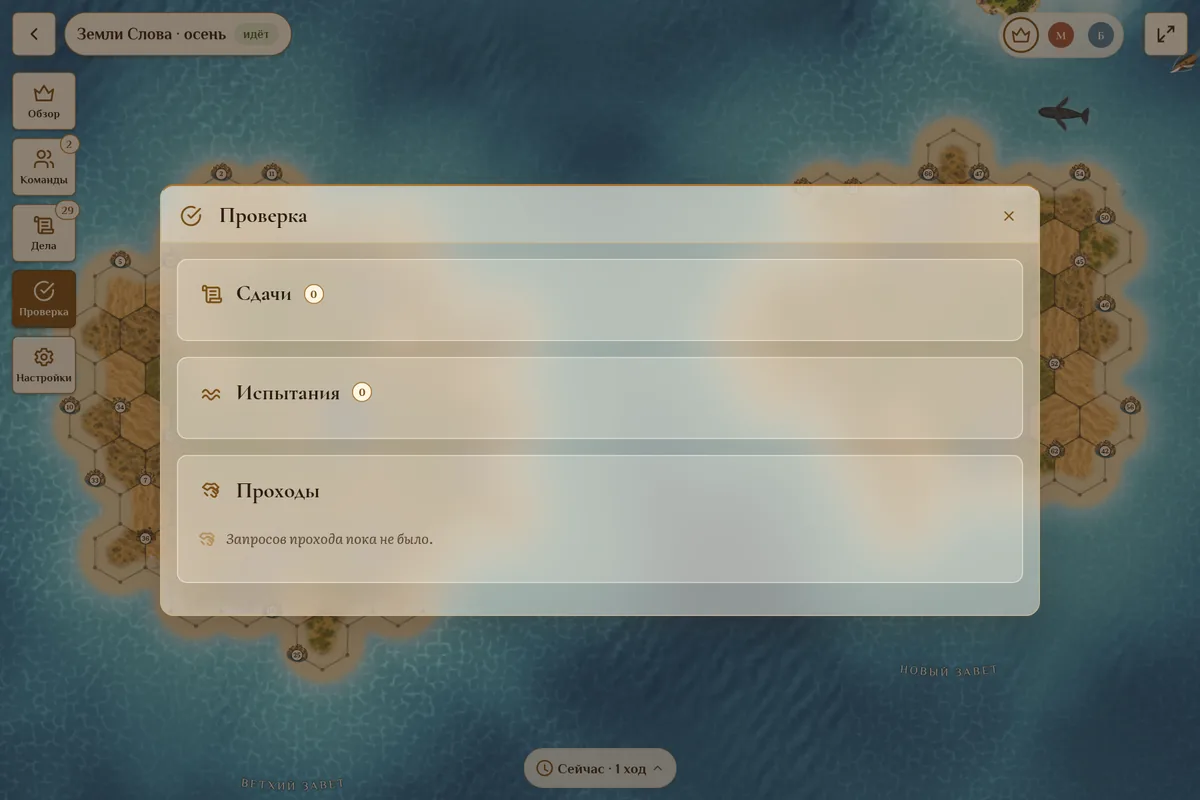
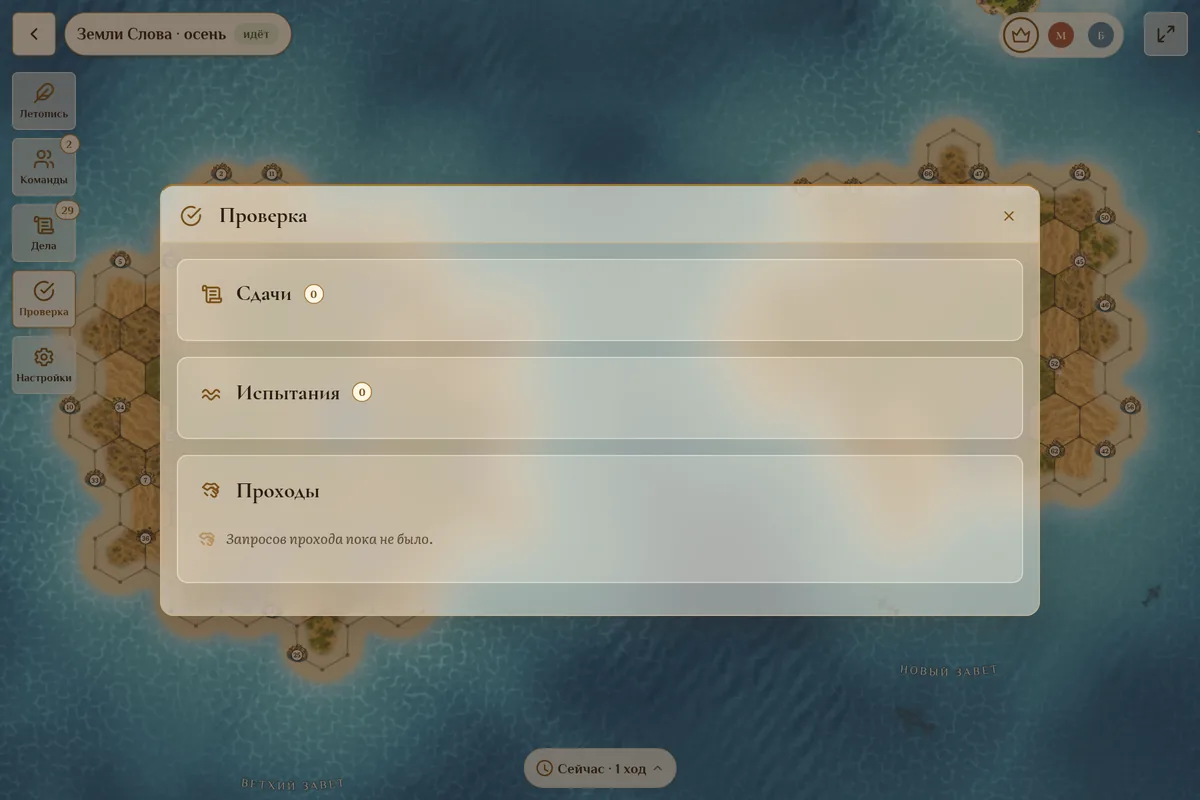
Разделы администратора: «Летопись» с пером вместо «Обзора», блок «Сейчас» убран, срок окончания, «Завершить игру» и адресаты конвертов в «Настройках», срок после сохранения одной строкой с карандашом; кнопки разделов и карты — стекло (решения владельца 21.09)
Claude-Session: https://claude.ai/code/session_01GYZTpVpHB6EzyvMrXyiWEP

Changed region(s): [[0.0, 0.0625, 0.0617, 0.5], [0.9558, 0.0, 1.0, 0.0938], [0.8633, 0.125, 0.925, 0.1562]]

diff --git a/apps/web/src/lib/en/player.ts b/apps/web/src/lib/en/player.ts
@@ -61,7 +61,7 @@ export const PLAYER: Record<string, string> = {
   "Мир. Капитан, заместитель или посол может предложить другой команде мир; та принимает или отклоняет. Пока мир действует, команды не бросают вызов городам друг друга и не объявляют осад. Мир не на срок: он действует, пока одна из сторон его не расторгнет; расторжение вступает в силу сразу, и об этом узнают все команды.": "Peace. The captain, deputy or ambassador can offer peace to another team; that team accepts or declines. While peace lasts, the teams do not challenge each other's cities and do not declare sieges. Peace has no term: it lasts until one side breaks it; the break takes effect at once, and every team learns of it.",
   "Лента «Что случилось» показывает события команды и новости обо всех испытаниях игры: кто кому бросил вызов, устоял ли город — без ставок и чисел стихов. «Моё служение» считает ваши дела, решённые районы, выученные стихи и взятые города. Раз в неделю всем приходит летопись недели. Первая команда, изучившая руины, находит знак шифра ближайшего города; над взятыми портами кружат чайки, раз в день клин птиц летит к ближайшему неоткрытому городу, дельфины сопровождают корабль.": "The “What happened” feed shows the team's events and news about every trial in the game: who challenged whom and whether the city held — without stakes or verse counts. “My service” counts your deeds, solved districts, learned verses and cities taken. Once a week everyone receives the chronicle of the week. The first team to study ruins finds a cipher sign of the nearest city; gulls circle over captured ports, once a day a wedge of birds flies to the nearest unopened city, and dolphins escort the ship.",
   "Меню команды: лента, служение, дела, испытания, положение команд, мир, состав.": "Team menu: feed, service, deeds, trials, standings, peace, roster.",
-  "Доска активности в блоке «Команды» показывает, кто сколько сделал (дела, районы, стихи, города) и когда был активен. В «Обзоре» — журнал событий игры и кнопка «Отправить летопись сейчас», в «Командах» — положение команд и «Книга сезона»: страница итогов для показа на собрании, её можно распечатать. В «Проверке» сдачи можно отфильтровать по команде и виду, посмотреть возраст и принять несколько однотипных разом; письма о сдачах могут приходить одним дайджестом раз в 3 часа или раз в день (продвинутые настройки).": "The activity board in the “Teams” block shows who did how much (deeds, districts, verses, cities) and when they were last active. “Overview” has the game's event log and the “Send the chronicle now” button; “Teams” has the standings and the “Season book”: a results page to show at the meeting, which can be printed. In “Review” submissions can be filtered by team and kind, their age is shown, and several of the same kind can be approved at once; submission emails can arrive as one digest every 3 hours or once a day (advanced settings).",
+  "Доска активности в блоке «Команды» показывает, кто сколько сделал (дела, районы, стихи, города) и когда был активен. В «Летописи» — журнал событий игры и кнопка «Отправить летопись сейчас», в «Командах» — положение команд и «Книга сезона»: страница итогов для показа на собрании, её можно распечатать. В «Проверке» сдачи можно отфильтровать по команде и виду, посмотреть возраст и принять несколько однотипных разом; письма о сдачах могут приходить одним дайджестом раз в 3 часа или раз в день (продвинутые настройки).": "The activity board in the “Teams” block shows who did how much (deeds, districts, verses, cities) and when they were last active. “Overview” has the game's event log and the “Send the chronicle now” button; “Teams” has the standings and the “Season book”: a results page to show at the meeting, which can be printed. In “Review” submissions can be filtered by team and kind, their age is shown, and several of the same kind can be approved at once; submission emails can arrive as one digest every 3 hours or once a day (advanced settings).",
   // Журнал событий (этап 4 решений 18.09): лента, новости, «Моё служение», мир, доска активности, «Книга сезона»
   "Что случилось": "What happened", "Пока тихо: первые события появятся, когда команда возьмёт дело.": "Quiet so far: the first events appear when the team takes a deed.",
   "Летопись недели": "Chronicle of the week", "новость": "news", "Показать всё ({n})": "Show all ({n})",
@@ -167,12 +167,12 @@ export const PLAYER: Record<string, string> = {
   "Меню команды: дела, испытания, положение команд, состав.": "Team menu: deeds, trials, standings, roster.",
   "Для администратора": "For the administrator",
   "Администратор создаёт игру, генерирует карту (можно сколько угодно раз, пока не понравится), создаёт команды и раздаёт ссылки-приглашения капитанам и участникам, заполняет набор дел (есть стандартный) и стартует игру.": "The administrator creates the game, generates the map (as many times as needed until it looks right), creates teams and hands out invitation links to captains and members, fills in the set of deeds (a default set is available) and starts the game.",
-  "У администратора карта во весь экран, а разделы — кнопки сбоку (на телефоне снизу): Обзор, Команды, Дела, Проверка, Настройки; нажатие открывает раздел над картой. Во время игры администратор проверяет сдачи дел и видео испытаний в «Проверке», следит за положением команд в «Обзоре» и на карте, при необходимости назначает города и завершает игру.": "The administrator sees the map full screen, with the sections as buttons on the side (at the bottom on a phone): Overview, Teams, Deeds, Review, Settings; tapping one opens the section over the map. During the game the administrator reviews deed submissions and trial videos in “Review”, follows the standings in the “Overview” and on the map, assigns cities when needed and finishes the game.",
+  "У администратора карта во весь экран, а разделы — кнопки сбоку (на телефоне снизу): Летопись, Команды, Дела, Проверка, Настройки; нажатие открывает раздел над картой. Во время игры администратор проверяет сдачи дел и видео испытаний в «Проверке», следит за положением команд в «Обзоре» и на карте, при необходимости назначает города и завершает игру.": "The administrator sees the map full screen, with the sections as buttons on the side (at the bottom on a phone): Chronicle, Teams, Deeds, Review, Settings; tapping one opens the section over the map. During the game the administrator reviews deed submissions and trial videos in “Review”, follows the standings in the “Overview” and on the map, assigns cities when needed and finishes the game.",
   "Карта администратора: все города, номера, пути команд; кнопки разделов слева.": "Administrator’s map: all cities, numbers, team routes; section buttons on the left.",
-  "Конверты. До старта в «Обзоре» добавьте адресатов конвертов — семьи, вдов, старцев, к которым команды понесут шифр (только подпись без имён и адресов; список стирается после игры). Игра раздаёт города адресатам поровну; если адресата добавили позже, нажмите «Перераспределить поровну». Кнопка «Ярлыки» рядом со списком открывает предпросмотр и «Скачать PDF»: на каждый город наружный ярлык на конверт (кому, номер книги, шифр) и вкладыш с ключом города. Разрежьте, вложите, раздайте адресатам. Ключ каждого города виден и в его карточке на карте — на случай, если конверт потеряется.": "Envelopes. Before the start, add envelope recipients in Overview: the families, widows and elders the teams will bring the cipher to (a short label only, no names or addresses; the list is erased after the game). The game shares the cities out evenly among recipients; if a recipient was added later, press “Share out evenly”. The “Labels” button next to the list opens a preview and “Download PDF”: for every city an outer label for the envelope (to whom, book number, cipher) and an insert with the city key. Cut, insert, hand out to the recipients. Each city key is also visible in its card on the map in case an envelope gets lost.",
+  "Конверты. До старта в «Настройках» добавьте адресатов конвертов — семьи, вдов, старцев, к которым команды понесут шифр (только подпись без имён и адресов; список стирается после игры). Игра раздаёт города адресатам поровну; если адресата добавили позже, нажмите «Перераспределить поровну». Кнопка «Ярлыки» рядом со списком открывает предпросмотр и «Скачать PDF»: на каждый город наружный ярлык на конверт (кому, номер книги, шифр) и вкладыш с ключом города. Разрежьте, вложите, раздайте адресатам. Ключ каждого города виден и в его карточке на карте — на случай, если конверт потеряется.": "Envelopes. Before the start, add envelope recipients in Settings: the families, widows and elders the teams will bring the cipher to (a short label only, no names or addresses; the list is erased after the game). The game shares the cities out evenly among recipients; if a recipient was added later, press “Share out evenly”. The “Labels” button next to the list opens a preview and “Download PDF”: for every city an outer label for the envelope (to whom, book number, cipher) and an insert with the city key. Cut, insert, hand out to the recipients. Each city key is also visible in its card on the map in case an envelope gets lost.",
   "«Чьими глазами» справа сверху показывает карту так, как её видит команда: туман, свитки, метки. Свитки и города там нажимаются: видно, что за дело, кто взял и в каком оно статусе, и как у команды идёт занятие города.": "“Through whose eyes” at the top right shows the map as a team sees it: fog, scrolls, marks. Scrolls and cities there are clickable: you see what the deed is, who took it and its status, and how the team is doing with taking the city.",
   "Пароли участников администратор не видит и не меняет: восстановление — только через почту самого участника.": "The administrator never sees or changes members’ passwords: recovery goes only through the member’s own email.",
-  "Обзор игры: что ждёт проверки, положение команд, адресаты конвертов.": "Game overview: what awaits review, standings, envelope recipients.",
+  "Летопись: подготовка к старту и журнал событий; срок, завершение и адресаты конвертов — в «Настройках».": "Chronicle: preparation for the start and the event log; the deadline, finishing and envelope recipients are in “Settings”.",
   "Команды и приглашения.": "Teams and invitations.", "Набор дел игры.": "The game’s set of deeds.",
   "Проверка: сдачи дел, испытания, проходы.": "Review: deed submissions, trials, passages.",
   "Карта администратора: все города, номера, пути команд.": "Administrator’s map: all cities, numbers, team routes.",

diff --git a/apps/web/src/pages/HowToPlayPage.tsx b/apps/web/src/pages/HowToPlayPage.tsx
@@ -68,15 +68,15 @@ export function HowToPlayPage() {
     ], figs: [{ src: "menu", caption: t("Меню команды: лента, служение, дела, испытания, положение команд, мир, состав.") }] },
     { icon: "crown", title: t("Для администратора"), paras: [
       t("Администратор создаёт игру, генерирует карту (можно сколько угодно раз, пока не понравится), создаёт команды и раздаёт ссылки-приглашения капитанам и участникам, заполняет набор дел (есть стандартный) и стартует игру."),
-      t("У администратора карта во весь экран, а разделы — кнопки сбоку (на телефоне снизу): Обзор, Команды, Дела, Проверка, Настройки; нажатие открывает раздел над картой. Во время игры администратор проверяет сдачи дел и видео испытаний в «Проверке», следит за положением команд в «Обзоре» и на карте, при необходимости назначает города и завершает игру."),
-      t("Конверты. До старта в «Обзоре» добавьте адресатов конвертов — семьи, вдов, старцев, к которым команды понесут шифр (только подпись без имён и адресов; список стирается после игры). Игра раздаёт города адресатам поровну; если адресата добавили позже, нажмите «Перераспределить поровну». Кнопка «Ярлыки» рядом со списком открывает предпросмотр и «Скачать PDF»: на каждый город наружный ярлык на конверт (кому, номер книги, шифр) и вкладыш с ключом города. Разрежьте, вложите, раздайте адресатам. Ключ каждого города виден и в его карточке на карте — на случай, если конверт потеряется."),
+      t("У администратора карта во весь экран, а разделы — кнопки сбоку (на телефоне снизу): Летопись, Команды, Дела, Проверка, Настройки; нажатие открывает раздел над картой. Во время игры администратор проверяет сдачи дел и видео испытаний в «Проверке», следит за положением команд в «Обзоре» и на карте, при необходимости назначает города и завершает игру."),
+      t("Конверты. До старта в «Настройках» добавьте адресатов конвертов — семьи, вдов, старцев, к которым команды понесут шифр (только подпись без имён и адресов; список стирается после игры). Игра раздаёт города адресатам поровну; если адресата добавили позже, нажмите «Перераспределить поровну». Кнопка «Ярлыки» рядом со списком открывает предпросмотр и «Скачать PDF»: на каждый город наружный ярлык на конверт (кому, номер книги, шифр) и вкладыш с ключом города. Разрежьте, вложите, раздайте адресатам. Ключ каждого города виден и в его карточке на карте — на случай, если конверт потеряется."),
       t("«Чьими глазами» справа сверху показывает карту так, как её видит команда: туман, свитки, метки. Свитки и города там нажимаются: видно, что за дело, кто взял и в каком оно статусе, и как у команды идёт занятие города."),
-      t("Доска активности в блоке «Команды» показывает, кто сколько сделал (дела, районы, стихи, города) и когда был активен. В «Обзоре» — журнал событий игры и кнопка «Отправить летопись сейчас», в «Командах» — положение команд и «Книга сезона»: страница итогов для показа на собрании, её можно распечатать. В «Проверке» сдачи можно отфильтровать по команде и виду, посмотреть возраст и принять несколько однотипных разом; письма о сдачах могут приходить одним дайджестом раз в 3 часа или раз в день (продвинутые настройки)."),
+      t("Доска активности в блоке «Команды» показывает, кто сколько сделал (дела, районы, стихи, города) и когда был активен. В «Летописи» — журнал событий игры и кнопка «Отправить летопись сейчас», в «Командах» — положение команд и «Книга сезона»: страница итогов для показа на собрании, её можно распечатать. В «Проверке» сдачи можно отфильтровать по команде и виду, посмотреть возраст и принять несколько однотипных разом; письма о сдачах могут приходить одним дайджестом раз в 3 часа или раз в день (продвинутые настройки)."),
       t("Штраф за телефон на собрании: в блоке «Команды» у команды есть действие «Оштрафовать» — игра сама выбирает случайный концевой участок пути и аннулирует его; если участок вёл в ещё не взятый город, город закрывается и его задания начинаются заново. Там же администратор одобряет роли, запрошенные капитаном, и переводит участников между командами. В «Настройках» есть «Продвинутые настройки»: минимальная ставка, сроки, штрафы, паузы и другие числа правил."),
       t("Пароли участников администратор не видит и не меняет: восстановление — только через почту самого участника."),
     ], figs: [
       { src: "admin-map", caption: t("Карта администратора: все города, номера, пути команд; кнопки разделов слева."), wide: true },
-      { src: "admin-overview", caption: t("Обзор игры: что ждёт проверки, положение команд, адресаты конвертов."), wide: true },
+      { src: "admin-overview", caption: t("Летопись: подготовка к старту и журнал событий; срок, завершение и адресаты конвертов — в «Настройках»."), wide: true },
       { src: "admin-teams", caption: t("Команды и приглашения."), wide: true },
       { src: "admin-deeds", caption: t("Набор дел игры."), wide: true },
       { src: "admin-review", caption: t("Проверка: сдачи дел, испытания, проходы."), wide: true },

diff --git a/apps/web/src/pages/GamePage.tsx b/apps/web/src/pages/GamePage.tsx
@@ -65,7 +65,6 @@ export function GamePage() {
   const shownCities = useMemo(() => (progress && at ? progress.cities.filter((c) => !c.capturedAt || Date.parse(c.capturedAt) <= at.getTime()) : progress?.cities ?? null), [progress, at]);
   const bump = () => setVersion((v) => v + 1);
   useGameEvents(id, (e) => { if (e.type === "game" || e.type === "map") void load(); if (e.type !== "deeds") void loadProgress(); bump(); });
-  const recipientsRef = useRef<HTMLDivElement>(null);
 
   const load = useCallback(async () => {
     const r = await api<{ game: GameDto; hexes: MapHexDto[]; nodes: MapNodeDto[]; edges: MapEdgeDto[] }>(`/api/games/${id}`);
@@ -123,12 +122,11 @@ export function GamePage() {
   const active = game.status === "ACTIVE";
   const draft = game.status === "DRAFT";
   const reviewCount = counts.submissions + counts.battles;
-  const trials = progress?.battles.length ?? 0;
   const hasMap = hexes.length > 0;
   const refresh = () => { void load(); void loadProgress(); };
 
   const sections: Array<{ key: Tab; label: string; icon: string; count?: number; hot?: boolean }> = [
-    { key: "overview", label: t("Обзор"), icon: "crown" },
+    { key: "overview", label: t("Летопись"), icon: "feather" },
     { key: "teams", label: t("Команды"), icon: "users", count: counts.teams },
     { key: "deeds", label: t("Дела"), icon: "scroll", count: counts.deeds },
     { key: "review", label: t("Проверка"), icon: "check", count: reviewCount, hot: true },
@@ -184,27 +182,8 @@ export function GamePage() {
                     hasMap={hasMap} nodeCount={nodes.length} cityCount={nodes.filter((n) => n.kind === "CITY").length} stats={stats}
                     onGenerate={() => void generate()} generating={busy} generateError={genError}
                     teams={counts.teams} teamCount={game.teamCount} deeds={counts.deeds} recipients={counts.recipients}
-                    goTo={setTab} goToRecipients={() => recipientsRef.current?.scrollIntoView({ behavior: "smooth", block: "start" })}
+                    goTo={setTab} goToRecipients={() => setTab("settings")}
                   />
-                  <div ref={recipientsRef}><RecipientsBlock gameId={game.id} status={game.status} version={version} /></div>
-                </>
-              )}
-              {active && (
-                <>
-                  <div className="card">
-                    <div className="card-head"><h2><span className="ico"><Icon name="check" /></span>{t("Сейчас")}</h2></div>
-                    <div className="summary-tiles">
-                      <a href="#review" onClick={(e) => { e.preventDefault(); setTab("review"); }}>
-                        <span className={"sum-value" + (reviewCount ? " hot" : "")}>{reviewCount}</span>
-                        <span className="sum-label"><Icon name="check" />{t("ждёт проверки")}</span>
-                      </a>
-                      <a href="#review" onClick={(e) => { e.preventDefault(); setTab("review"); }}>
-                        <span className="sum-value">{trials}</span>
-                        <span className="sum-label"><Icon name="wave" />{t("идёт испытаний")}</span>
-                      </a>
-                    </div>
-                  </div>
-                  <FinishBlock gameId={game.id} status={game.status} version={version} onChanged={refresh} part="rest" between={<RecipientsBlock gameId={game.id} status={game.status} version={version} />} />
                 </>
               )}
               {game.status === "FINISHED" && <FinishBlock gameId={game.id} status={game.status} version={version} onChanged={refresh} />}
@@ -225,6 +204,8 @@ export function GamePage() {
           {open === "settings" && (
             <div key="settings">
               <SettingsBlock key={game.teamCount + ":" + game.name} game={game} onSaved={() => { void load(); bump(); }} />
+              {active && <FinishBlock gameId={game.id} status={game.status} version={version} onChanged={refresh} part="rest" />}
+              {game.status !== "FINISHED" && <RecipientsBlock gameId={game.id} status={game.status} version={version} />}
               <AdminsBlock gameId={game.id} version={version} />
               <PushToggle compact />
             </div>

diff --git a/apps/web/src/pages/FinishBlock.tsx b/apps/web/src/pages/FinishBlock.tsx
@@ -22,6 +22,7 @@ export function FinishBlock({ gameId, status, version, onChanged, between, part 
   const [endsAt, setEndsAt] = useState("");
   const [error, setError] = useState<string | null>(null);
   const [busy, setBusy] = useState(false);
+  const [editing, setEditing] = useState(false);
   const load = useCallback(() => api<StandingsDto>(`/api/games/${gameId}/standings`).then((d) => { setData(d); setEndsAt(d.endsAt ?? ""); setLoadError(false); }).catch(() => setLoadError(true)), [gameId]);
   useEffect(() => { void load(); }, [load, version, status]);
   if (status === "DRAFT") return null;
@@ -33,7 +34,7 @@ export function FinishBlock({ gameId, status, version, onChanged, between, part 
 
   async function saveDeadline() {
     setError(null); setBusy(true);
-    try { await api(`/api/games/${gameId}`, { method: "PATCH", body: JSON.stringify({ settings: { endsAt: endsAt || null } }) }); notify(t("Срок сохранён")); setData((d) => (d ? { ...d, endsAt } : d)); }
+    try { await api(`/api/games/${gameId}`, { method: "PATCH", body: JSON.stringify({ settings: { endsAt: endsAt || null } }) }); notify(t("Срок сохранён")); setData((d) => (d ? { ...d, endsAt } : d)); setEditing(false); }
     catch (e) { setError(e instanceof ApiError ? e.message : t("Ошибка сети")); }
     finally { setBusy(false); }
   }
@@ -87,14 +88,21 @@ export function FinishBlock({ gameId, status, version, onChanged, between, part 
       {!finished && part !== "standings" && (
         <>
           <div className="card">
-            <div className="card-head"><h2><span className="ico"><Icon name="clock" /></span>{t("Срок окончания")}</h2></div>
-            <DeadlinePicker value={endsAt} onChange={setEndsAt} />
-            <p className="hint">{t("Игра завершится сама; победит команда с наибольшим числом городов.")}</p>
-            {error && <p className="error">{error}</p>}
-            {endsAt && endsAt !== (data.endsAt ?? "") && (
-              <div className="actions">
-                <button type="button" onClick={() => void saveDeadline()} disabled={busy}>{t("Сохранить")}</button>
-              </div>
+            <div className="card-head"><h2><span className="ico"><Icon name="clock" /></span>{t("Срок окончания")}</h2>
+              {data.endsAt && !editing && <button type="button" className="ghost icon" aria-label={t("Изменить срок")} title={t("Изменить срок")} onClick={() => setEditing(true)}><Icon name="edit" /></button>}
+            </div>
+            {data.endsAt && !editing ? (
+              <p className="deadline-when"><Icon name="clock" />{t("Игра закончится {d}", { d: fmtDate(data.endsAt) })}</p>
+            ) : (
+              <>
+                <DeadlinePicker value={endsAt} onChange={setEndsAt} />
+                <p className="hint">{t("Игра завершится сама; победит команда с наибольшим числом городов.")}</p>
+                {error && <p className="error">{error}</p>}
+                <div className="actions">
+                  {endsAt && endsAt !== (data.endsAt ?? "") && <button type="button" onClick={() => void saveDeadline()} disabled={busy}>{t("Сохранить")}</button>}
+                  {data.endsAt && <button type="button" className="ghost" onClick={() => { setEndsAt(data.endsAt ?? ""); setEditing(false); }}>{t("Отмена")}</button>}
+                </div>
+              </>
             )}
           </div>
           <div className="card">

diff --git a/apps/web/src/lib/en/admin.ts b/apps/web/src/lib/en/admin.ts
@@ -120,7 +120,7 @@ export const ADMIN: Record<string, string> = {
   "длинных задач": "long tasks", "за замер, дольше 50 мс": "per sample, over 50 ms", "Срез": "Slice", "Замеров": "Samples", "Кадров/с": "FPS", "Долгих кадров": "Slow frames", "Крупная отрисовка": "Largest paint", "Загружена": "Loaded",
   "телефон": "phone", "компьютер": "desktop", "карта команды": "team map", "карта администратора": "admin map", "другие страницы": "other pages",
   // Карта глазами команды
-  "Чьими глазами": "Whose view", "Через": "In", "дней": "days", "в": "at", "ч.": "h", "Календарь": "Calendar", "Дней до окончания": "Days until the end", "Час окончания": "End hour", "2 недели": "2 weeks", "месяц": "a month", "6 недель": "6 weeks", "2 месяца": "2 months", "Игра закончится {d}": "The game ends on {d}", "Предыдущий месяц": "Previous month", "Следующий месяц": "Next month", "Глазами команды «{name}»": "As team “{name}”", "Скрыть историю ходов": "Hide move history", "К старту": "To the start", "На ход назад": "One move back", "На ход вперёд": "One move forward", "Карта глазами команды «{name}»: туман, стороны и метки как у неё. Нажмите свиток или город, чтобы увидеть дело или ход занятия города.": "The map as team “{name}” sees it: fog, sides and markers as theirs. Taps do nothing here.",
+  "Чьими глазами": "Whose view", "Летопись": "Chronicle", "Изменить срок": "Change the deadline", "Через": "In", "дней": "days", "в": "at", "ч.": "h", "Календарь": "Calendar", "Дней до окончания": "Days until the end", "Час окончания": "End hour", "2 недели": "2 weeks", "месяц": "a month", "6 недель": "6 weeks", "2 месяца": "2 months", "Игра закончится {d}": "The game ends on {d}", "Предыдущий месяц": "Previous month", "Следующий месяц": "Next month", "Глазами команды «{name}»": "As team “{name}”", "Скрыть историю ходов": "Hide move history", "К старту": "To the start", "На ход назад": "One move back", "На ход вперёд": "One move forward", "Карта глазами команды «{name}»: туман, стороны и метки как у неё. Нажмите свиток или город, чтобы увидеть дело или ход занятия города.": "The map as team “{name}” sees it: fog, sides and markers as theirs. Taps do nothing here.",
   "Администратор": "Admin",
   // Обращения в поддержку
   "Обращения в поддержку": "Support requests", "Только открытые": "Open only", "Показать закрытые": "Show closed",

diff --git a/apps/web/src/lib/en/changelog.ts b/apps/web/src/lib/en/changelog.ts
@@ -1,5 +1,7 @@
 /** EN-строки раздела «Что нового». Ключ — русская строка из content/changelog.ts. */
 export const CHANGELOG_EN: Record<string, string> = {
+  "Раздел «Обзор» переименован в «Летопись» со значком пера; кнопки разделов и кнопки карты стали стеклянными.": "The “Overview” section is renamed “Chronicle” with a feather icon; the section buttons and map buttons are glass now.",
+  "Разделы администратора: «Сейчас» убран (то же видно на кнопке «Проверка»); срок окончания, «Завершить игру» и адресаты конвертов переехали в «Настройки»; после сохранения срока показывается только дата с карандашом для правки.": "Administrator's sections: “Now” is removed (the “Review” button shows the same); the deadline, “Finish the game” and envelope recipients moved to “Settings”; after saving the deadline only the date is shown, with a pencil to edit it.",
   "Срок окончания игры задаётся без ввода по формату: дни и час со стрелками, быстрые сроки (2 недели, месяц, 6 недель, 2 месяца) и календарь по кнопке.": "The game end is set without typing a format: days and hour with arrows, quick terms (2 weeks, a month, 6 weeks, 2 months) and a calendar behind a button.",
   "У игроков тоже стекло: боковое меню команды, лист дела, город и испытание просвечивают карту сквозь размытие.": "Players get glass too: the team side menu, the deed sheet, the city and the trial show the map through a blur.",
   "Разделы администратора над картой стали настоящим стеклом: карта просвечивает сквозь попап и блоки внутри него.": "The administrator's sections over the map are now real glass: the map shows through the pop-up and the blocks inside it.",

diff --git a/apps/web/src/pages/StartBlock.tsx b/apps/web/src/pages/StartBlock.tsx
@@ -61,7 +61,7 @@ export function StartBlock({ gameId, version, onStarted, hasMap, nodeCount, city
         <Step n={1} done={hasMap} title={t("Карта")} status={mapStatus} action={<button type="button" className={hasMap ? "secondary sm" : "sm"} onClick={onGenerate} disabled={generating}><Icon name="refresh" />{hasMap ? t("Заново") : t("Сгенерировать карту")}</button>} error={generateError} />
         <Step n={2} done={teams >= teamCount && teams > 0} title={t("Команды и приглашения")} status={t("{a} из {b}", { a: teams, b: teamCount })} action={tabLink("teams")} />
         <Step n={3} done={deeds > 0} title={t("Дела")} status={plural(deeds, ["дело", "дела", "дел"])} action={tabLink("deeds")} />
-        <Step n={4} done={recipients > 0} title={t("Адресаты конвертов и ярлыки")} status={recipients > 0 ? plural(recipients, ["адресат", "адресата", "адресатов"]) : t("Нужны до старта: без адресата шифр некому назвать")} action={<a href="#recipients" onClick={(e) => { e.preventDefault(); goToRecipients(); }}>{t("Ниже")}</a>} />
+        <Step n={4} done={recipients > 0} title={t("Адресаты конвертов и ярлыки")} status={recipients > 0 ? plural(recipients, ["адресат", "адресата", "адресатов"]) : t("Нужны до старта: без адресата шифр некому назвать")} action={<a href="#settings" onClick={(e) => { e.preventDefault(); goToRecipients(); }}>{t("Настройки")}</a>} />
       </ol>
       {loadError ? <ErrorState text={t("Не удалось проверить готовность")} onRetry={() => void load()} /> : !r ? <LoadingState rows={1} /> : (
         <div className="problems">

diff --git a/apps/web/src/content/changelog.ts b/apps/web/src/content/changelog.ts
@@ -6,6 +6,8 @@ export interface ChangeDay { date: string; items: string[] }
 
 export const CHANGELOG: ChangeDay[] = [
   { date: "2026-09-21", items: [
+    "Раздел «Обзор» переименован в «Летопись» со значком пера; кнопки разделов и кнопки карты стали стеклянными.",
+    "Разделы администратора: «Сейчас» убран (то же видно на кнопке «Проверка»); срок окончания, «Завершить игру» и адресаты конвертов переехали в «Настройки»; после сохранения срока показывается только дата с карандашом для правки.",
     "Срок окончания игры задаётся без ввода по формату: дни и час со стрелками, быстрые сроки (2 недели, месяц, 6 недель, 2 месяца) и календарь по кнопке.",
     "У игроков тоже стекло: боковое меню команды, лист дела, город и испытание просвечивают карту сквозь размытие.",
     "Разделы администратора над картой стали настоящим стеклом: карта просвечивает сквозь попап и блоки внутри него.",

diff --git a/apps/web/src/styles/theme-admin.css b/apps/web/src/styles/theme-admin.css
@@ -228,3 +228,11 @@ details.settings-group summary::after { content: ""; width: 20px; height: 20px; 
 .cal-day.today { border-color: var(--bronze); }
 .cal-day.sel, .cal-day.sel:hover { background: var(--bronze-ink); color: var(--paper-light); border-color: var(--bronze-deep); }
 @media (max-width: 479px) { .calendar { right: auto; left: 0; } }
+
+/* Кнопки разделов — стекло (решение владельца 21.09) */
+.admin-dock .dock-btn, .admin-dock .dock-btn:hover { background: rgba(255,250,236,.55); border: 1px solid rgba(255,250,236,.7); box-shadow: 0 2px 8px rgba(59,36,21,.10); -webkit-backdrop-filter: blur(12px); backdrop-filter: blur(12px); }
+.admin-dock .dock-btn:hover { background: rgba(255,250,236,.75); }
+.admin-dock .dock-btn.on, .admin-dock .dock-btn.on:hover { background: rgba(255,250,236,.9); border-color: var(--bronze); color: var(--bronze-ink); box-shadow: 0 2px 8px rgba(59,36,21,.12); }
+.admin-dock .dock-btn.on .i { color: var(--bronze-ink); }
+@media (max-width: 767px) { .admin-dock .dock-btn { background: rgba(255,250,236,.55); border: 1px solid rgba(255,250,236,.7); } .admin-dock .dock-btn.on { background: rgba(255,250,236,.9); } }
+.admin-map.full .admin-title, .admin-map.full .admin-back, .admin-map .map-controls button { background: rgba(255,250,236,.55); border: 1px solid rgba(255,250,236,.7); box-shadow: 0 2px 8px rgba(59,36,21,.10); -webkit-backdrop-filter: blur(12px); backdrop-filter: blur(12px); }

diff --git a/apps/web/src/styles/theme-player.css b/apps/web/src/styles/theme-player.css
@@ -263,3 +263,7 @@
 /* ---------- Аккаунт и главная ---------- */
 .narrow-page .hint { font-family: var(--font-book); }
 .home-card .chip:not(.ok):not(.warn):not(.bad):not(.info):not(.accent) { color: var(--stone-dark); }
+
+/* Кнопки карты у игрока — стекло (решение владельца 21.09) */
+.hud-left .hud-btn, .hud-left .hud-team, .map-area .map-controls button { background: rgba(255,250,236,.55); border: 1px solid rgba(255,250,236,.7); box-shadow: 0 2px 8px rgba(59,36,21,.10); -webkit-backdrop-filter: blur(12px); backdrop-filter: blur(12px); }
+.hud-left .hud-btn:hover, .hud-left .hud-team:hover, .map-area .map-controls button:hover { background: rgba(255,250,236,.8); }

diff --git a/apps/web/src/components/Icon.tsx b/apps/web/src/components/Icon.tsx
@@ -29,6 +29,7 @@ const P: Record<string, string> = {
   book: "M4 19.5A2.5 2.5 0 0 1 6.5 17H20M4 19.5A2.5 2.5 0 0 0 6.5 22H20V2H6.5A2.5 2.5 0 0 0 4 4.5v15Z",
   clock: "M12 22a10 10 0 1 0 0-20 10 10 0 0 0 0 20Zm0-14v6l4 2",
   calendar: "M8 2v4m8-4v4M3 9h18M5 5h14a2 2 0 0 1 2 2v12a2 2 0 0 1-2 2H5a2 2 0 0 1-2-2V7a2 2 0 0 1 2-2Z",
+  feather: "M20.24 12.24a6 6 0 0 0-8.49-8.49L5 10.5V19h8.5zM16 8 2 22M17.5 15H9",
   mail: "M4 4h16a2 2 0 0 1 2 2v12a2 2 0 0 1-2 2H4a2 2 0 0 1-2-2V6a2 2 0 0 1 2-2Zm18 2-10 7L2 6",
   alert: "M12 9v4m0 4h.01M10.3 3.9 1.8 18a2 2 0 0 0 1.7 3h17a2 2 0 0 0 1.7-3L13.7 3.9a2 2 0 0 0-3.4 0Z",
   bell: "M6 8a6 6 0 0 1 12 0c0 7 3 9 3 9H3s3-2 3-9m4.3 13a1.94 1.94 0 0 0 3.4 0",

diff --git a/docs/LANDS_OF_THE_WORD.md b/docs/LANDS_OF_THE_WORD.md
@@ -369,7 +369,7 @@
   - **Лента «Что случилось»** в меню команды: свои события (дела сданы/приняты/возвращены, районы и порядок решены, проходы, штраф, роли, находки) и **новости для всех команд**: кто кому бросил вызов (с названием книги города), встал в очередь, чей вызов начался, устоял город или взят, сгорел вызов, осады, мир. **Ставки и числа стихов в новостях не показываются.**
   - **Летопись недели** уходит сама всем участникам всех команд письмом и уведомлением (день недели и час по UTC — в продвинутых настройках, по умолчанию воскресенье 15:00 UTC): дела по командам, города, испытания без ставок, положение. Без «слова администратора». Летопись видна и в ленте; администратор может отправить её досрочно кнопкой в «Обзоре».
   - **«Моё служение»** в меню команды: дела (включая участие в делах группой), решённые районы, выученные стихи, взятые города, переправы. **Доска активности** в блоке «Команды» у администратора: те же числа по всем участникам, самые активные сверху, последняя активность.
-  - **«Книга сезона»** (`/games/:id/book`, кнопка в «Обзоре» и в итогах): положение команд, участники с числами, города с датами, принятые дела с участниками, испытания и события, летописи недель; печатается.
+  - **«Книга сезона»** (`/games/:id/book`, кнопка в «Командах» и в итогах): положение команд, участники с числами, города с датами, принятые дела с участниками, испытания и события, летописи недель; печатается.
   - **Мир между командами** (2.14): капитан, заместитель или посол предлагает мир другой команде, та принимает или отклоняет; пока мир действует, команды **не бросают вызов городам друг друга и не объявляют осад**. Мир не на срок: действует, пока одна из сторон не расторгнет; расторжение принимается сразу, с новостью для всех команд.
   - **Руины с сокровищем:** первая команда, решившая все задания руин, получает находку — один знак шифра ближайшего (по сторонам пути) не взятого ею города (засчитывается как решённое задание его района); второй команде находки нет.
   - **Живность-подсказка** (клиент): чайки кружат над взятыми портами команды, раз в день клин птиц летит от старта команды к ближайшему не открытому ею городу (цель считает сервер), стая дельфинов сопровождает корабль команды, пока он в море.
@@ -806,6 +806,7 @@ npm run typecheck
 
 ### 12.5 Остальной интерфейс
 
+- ✅ **Разделы администратора (решение владельца 21.09):** «Летопись» (бывший «Обзор», значок пера: подготовка к старту в черновике, журнал событий в игре), «Команды», «Дела», «Проверка», «Настройки» (настройки игры, срок окончания и «Завершить игру», адресаты конвертов, администраторы, уведомления). Блок «Сейчас» убран: то же число видно на кнопке «Проверка». Срок окончания после сохранения показывается одной строкой с карандашом для правки.
 - ✅ **Без поля «Церковь» (решение владельца 20.09):** игра создаётся по одному названию, команды могут быть сборными из разных церквей; название организации нигде не показывается (сущность Org в базе остаётся с названием по умолчанию). Числовые поля настроек — число со стрелками вверх/вниз. Кнопок «+/−» на карте нет: щипок и колёсико, справа только «вся карта» и «к старту».
 - ✅ **Легче и светлее (решения владельца 19–20.09):** мелкие элементы без монет, двойных рамок и текстур (правила — `docs/design/DESIGN.md` §2b, разбор — `docs/design/audit-light-2026-09-19.md`); ничего тёмного: шапка без полосы (название, раздел, аккаунт прямо на фоне), голова меню команды и всплывающие сообщения — светлый лист. **Фон страниц** — сгенерированный светлый пейзаж с высоты под углом ~45°: гексовое поле с лугами, рощами, полосками пустыни, оазисом, рекой и горами в дымке, пастельный, малоконтрастный, под молочной пеленой (`apps/web/public/img/ui/bg-land-wide.webp` для компьютера, `bg-land-tall.webp` для телефона; промпт — в `scratchpad`-скрипте генерации, стиль: «акварель на пергаменте, центр кадра свободен от ярких деталей, без людей, зданий и текста»). На экранах карты фон не виден.
 - ✅ **Оформление «игра, а не сайт» (решение владельца 18.09):** белые фоны и «офисные» блоки заменены материалами игры — пергамент (карточки, шторки, меню), тёмное дерево (шапка, голова меню, док администратора на телефоне), бронза (кнопки, монеты номеров и счётчиков, иконки заголовков), сургуч (опасные кнопки, метки «выбыла/возвращено», печать «выполнено»), лён (плитки администратора), камень (неактивное). Заголовки — Cormorant Garamond, чтение — Literata, интерфейс — Philosopher. Пояснения и правила спрятаны за кнопку «?» (компонент Help) и раскрывашки; на виду остаётся состояние игры: что делать сейчас, сроки, предупреждения. Карточки районов — одна строка (номер · название · стихи · статус), пересказ — по переключателю «Пересказ»; карточка дела — суть, потом кнопка, потом «Кодекс дела». Подробно — `docs/design/DESIGN.md` §2a; отчёт «было/стало» — `docs/reports/ui-atmosphere-2026-09-18`.
